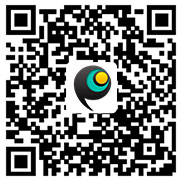
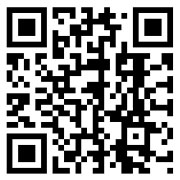
按需求修改页面
1. 替换 Logo 图片
1. 替换微信二维码中的 Logo
1. 替换二维码为下载二维码
1. 恢复 download-info

diff --git a/source/css/index.css.sass b/source/css/index.css.sass
@@ -26,13 +26,6 @@ header, footer, section
     width: 227px
     height: 108px
     background: image-url('index/brand.png') no-repeat
-  .weixin-qrcode
-    top: 300px
-    right: 20px
-    position: absolute
-    width: 215px
-    height: 215px
-    background: image-url('index/weixin_qrcode.jpg') no-repeat
   .download-info
     top: 264px
     right: 0
